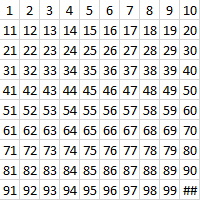
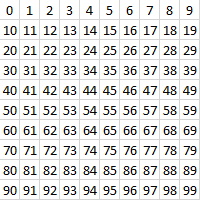
change drawer in main

diff --git a/Main.cpp b/Main.cpp
@@ -12,11 +12,8 @@ enum condition { addPoint, addLine, deleteLine, setActivePoint };
 
 void main()
 {
-	//--journal--
 	cout << "::Journal::" << endl << endl;
-	//--end journal--
 
-	//--sfml--
 	//window for drawing
 	RenderWindow window(VideoMode(800, 600), "Flexis");
 	//texture for menu
@@ -31,9 +28,9 @@ void main()
 	//texture of point
 	Texture texturePoint;
 	texturePoint.loadFromFile("nums.jpg");
+	sfmlPoint.setTexture(&texturePoint);
 	//edge line
 	Vertex line[2];
-	//--end sfml--
 
 	//for choise event
 	int thisStatus = -1;
@@ -50,12 +47,11 @@ void main()
 		{
 			switch (event.type)
 			{
-				// çàêðûòèå îêíà
+
 			case Event::Closed:
 				window.close();
 				break;
 
-				// íàæàòèå êëàâèøè
 			case Event::KeyPressed:
 				if (event.key.code == Keyboard::Num0)
 				{
@@ -66,14 +62,9 @@ void main()
 				{
 					thisStatus = addLine;
 					cout << "add line between active and your points:: \n(write name of point)\nline beetwen " << tree.getActivePoint()->getName() << "and : ";
-					cin >> name;
-					cout << endl;
+					cin >> name; cout << endl;
 					tree.contIsolPoint(tree.getRoot()->search(name, tree.getRoot()));
-					line[0] = Vertex(Vector2f(tree.getActivePoint()->getX(), tree.getActivePoint()->getY()));
-					line[1] = Vertex(Vector2f(tree.getRoot()->search(name, tree.getRoot())->getX(), tree.getRoot()->search(name, tree.getRoot())->getY()));
-
-					tree.status();
-					cout << endl;
+					tree.status();	cout << endl;
 				}
 				else if (event.key.code == Keyboard::Num2)
 				{
@@ -85,14 +76,11 @@ void main()
 					cout << "change active point:: \n(write name for new active point)\nnew active point: #";
 					cin >> name;
 					tree.setActivePoint(tree.getRoot()->search(name, tree.getRoot()));
-
 					cout << endl;
-					cout << tree.getActivePoint()->getName();
 					tree.status();
 				}
 				break;
 
-				//íàæàòèå êíîïêè ìûøè
 			case Event::MouseButtonPressed:
 				if (event.mouseButton.button == sf::Mouse::Left)
 				{
@@ -106,39 +94,46 @@ void main()
 						{
 							tree.addPoint(&Point(event.mouseButton.x, event.mouseButton.y));
 						}
-						//--journal--
 						cout << "New point: " << tree.getCount() << endl;
 						cout << "x: " << event.mouseButton.x << endl;
 						cout << "y: " << event.mouseButton.y << endl;
 						cout << endl;
 						tree.status();
 						cout << endl;
-						//--end journal--
-
-						//--sfml--
-						sfmlPoint.setPosition(event.mouseButton.x, event.mouseButton.y);
-						sfmlPoint.setTexture(&texturePoint);
-						sfmlPoint.setTextureRect(IntRect(20 * (tree.getCount() % 10 - 1), 20 * ((tree.getCount() - 1) / 10), 20, 20));
-
-						line[0] = Vertex(Vector2f(tree.getActivePoint()->getX(), tree.getActivePoint()->getY()));
-						line[1] = Vertex(Vector2f(event.mouseButton.x, event.mouseButton.y));
-						//--end sfml--
 
 						thisStatus = -1;
 					}
 				}
-				// ìû íå îáðàáàòûâàåì äðóãèå òèïû ñîáûòèé
+
 			default:
 				break;
 			}
+
+			//---Drawer---
+
+			Point* tempPoint;
+			window.clear();
+			for (int i = 1; i <= tree.getCount(); i++)
+			{
+				tempPoint = tree.getRoot()->search(i, tree.getRoot());
+				if (tempPoint != NULL)
+				{
+					sfmlPoint.setPosition(tempPoint->getX(), tempPoint->getY());
+					sfmlPoint.setTextureRect(IntRect(20 * (tempPoint->getName() % 10), 20 * (tempPoint->getName() / 10), 20, 20));
+					window.draw(sfmlPoint);
+					for (int j = 0; j < tempPoint->getNumbSon(); j++)
+					{
+						line[0] = Vertex(Vector2f(tempPoint->getX(), tempPoint->getY()));
+						line[1] = Vertex(Vector2f(tempPoint->getArrPoints()[j].getX(), tempPoint->getArrPoints()[j].getY()));
+						window.draw(line, 2, sf::Lines);
+					}
+				}
+			}
+
 		}
 
-		//--sfml--
-		window.draw(line, 2, sf::Lines);
-		window.draw(sfmlPoint);
 		window.draw(spriteMenu);
 		window.display();
-		//--end sfml--
 	}
 
 	return;
